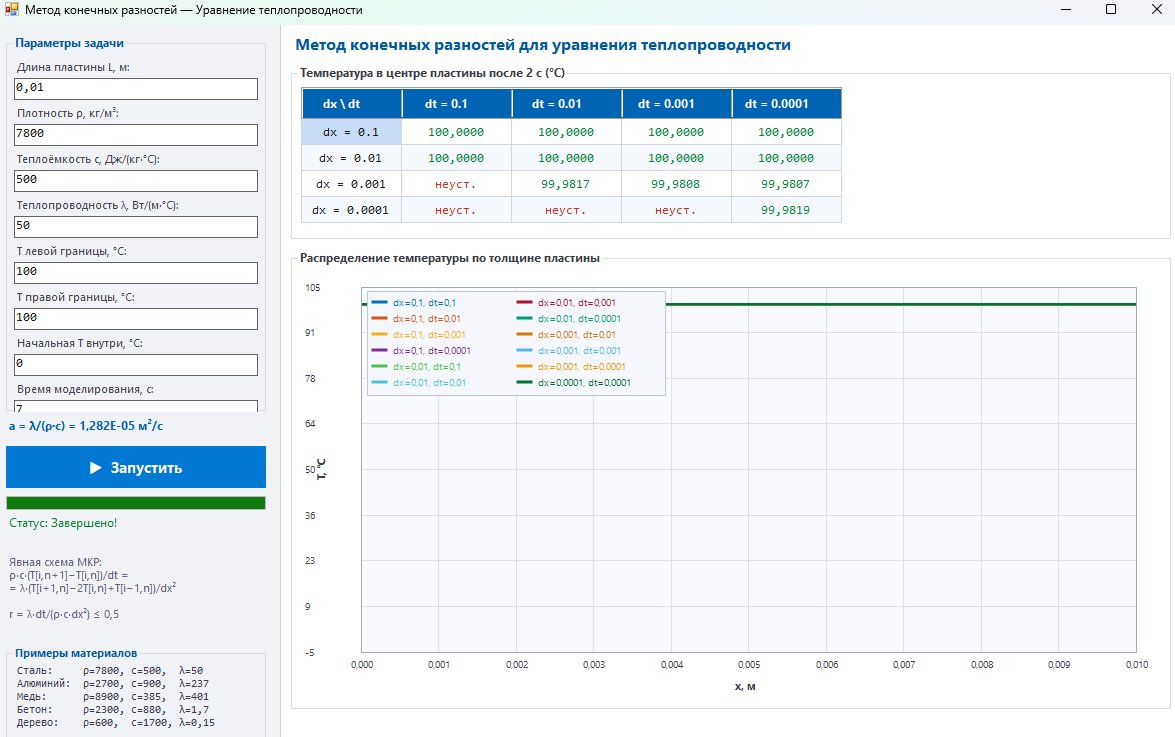
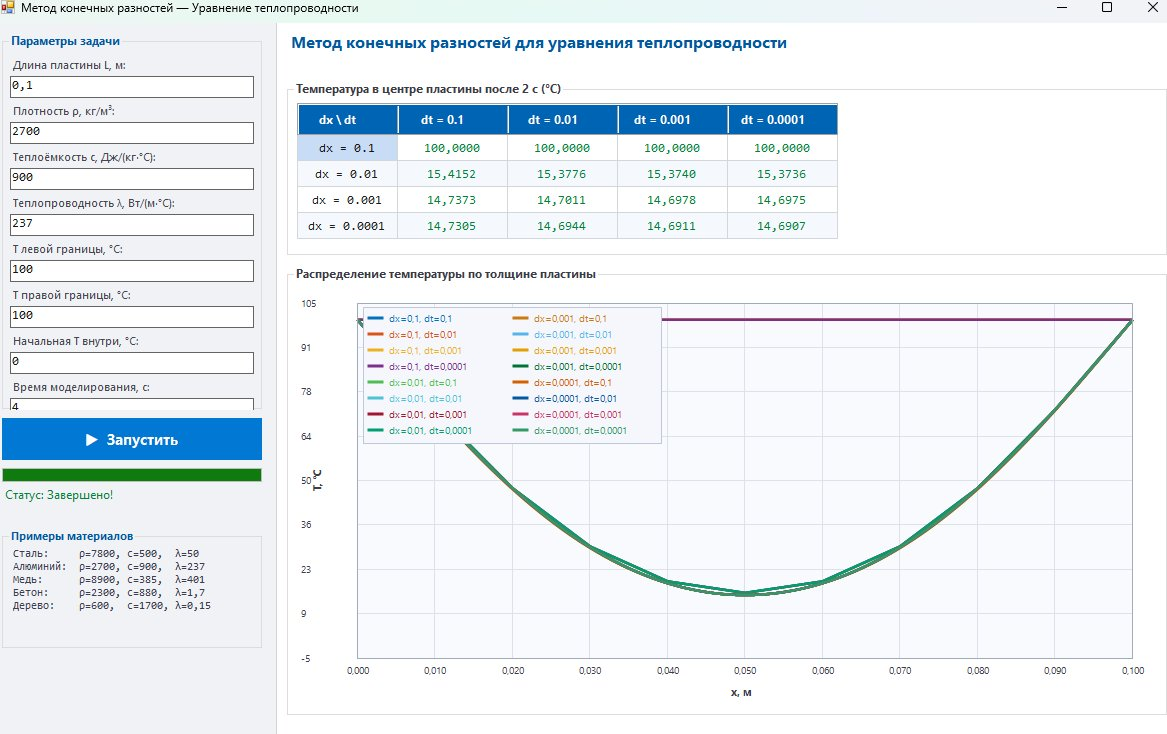
lab2 update

diff --git a/lab02/HeatEquation/Form1.cs b/lab02/HeatEquation/Form1.cs
@@ -9,14 +9,14 @@ namespace HeatEquation
 {
     public partial class Form1 : Form
     {
-        private double L = 0.1;    // длина пластины, м
-        private double rho = 7800.0; // плотность, кг/м³ (сталь)
-        private double c = 500.0;  // удельная теплоёмкость, Дж/(кг·°C)
-        private double lambda = 50.0;   // теплопроводность, Вт/(м·°C)
-        private double T_left = 100.0; // температура левой границы, °C
-        private double T_right = 100.0; // температура правой границы, °C
-        private double T_init = 0.0;   // начальная температура, °C
-        private double t_end = 2.0;   // время моделирования, с
+        private double L = 0.1;
+        private double rho = 7800.0;
+        private double c = 500.0;
+        private double lambda = 50.0;
+        private double T_left = 100.0;
+        private double T_right = 100.0;
+        private double T_init = 0.0;
+        private double t_end = 2.0;
 
         private bool isRunning = false;
 
@@ -83,7 +83,7 @@ namespace HeatEquation
                 t_end = double.Parse(txtTEnd.Text.Replace(',', '.'), ci);
 
                 if (rho <= 0 || c <= 0 || lambda <= 0 || L <= 0 || t_end <= 0)
-                    throw new Exception("Параметры должны быть положительными.");
+                    throw new Exception("Все параметры должны быть положительными.");
             }
             catch (Exception ex)
             {
@@ -95,9 +95,7 @@ namespace HeatEquation
                 return;
             }
 
-            // a = lambda / (rho * c)
-            double a = lambda / (rho * c);
-            lblA.Text = $"a = λ/(ρ·c) = {a:G4} м²/с";
+
 
             for (int i = 0; i < 4; i++)
                 for (int j = 1; j <= 4; j++)
@@ -138,38 +136,23 @@ namespace HeatEquation
                     for (int jdt = 0; jdt < dtValues.Length; jdt++)
                     {
                         double dt = dtValues[jdt];
-                        // r = a * dt / dx²  — число Куранта
-                        double r = a * dt / (dx * dx);
                         int iCopy = idx, jCopy = jdt;
 
-                        if (r > 0.5)
-                        {
-                            this.Invoke((Action)(() =>
-                            {
-                                dgvResults.Rows[iCopy].Cells[jCopy + 1].Value = "неуст.";
-                                dgvResults.Rows[iCopy].Cells[jCopy + 1].Style.ForeColor = Color.FromArgb(200, 50, 30);
-                            }));
-                        }
-                        else
-                        {
-                            var (centerTemp, Tfinal, N) = Simulate(dx, dt, r);
+                        
+                        var (centerTemp, Tfinal, N) = SimulateImplicit(dx, dt);
 
-                            var col = lineColors[colorIdx % lineColors.Length];
-                            colorIdx++;
-                            string lbl = $"dx={dx}, dt={dt}";
-                            double[] copy = (double[])Tfinal.Clone();
-                            this.Invoke((Action)(() =>
-                            {
-                                chartSeries.Add((lbl, copy, dx, col));
-                                pnlChart.Invalidate();
-                            }));
+                        var col = lineColors[colorIdx % lineColors.Length];
+                        colorIdx++;
+                        string lbl = $"dx={dx}, dt={dt}";
+                        double[] copy = (double[])Tfinal.Clone();
 
-                            this.Invoke((Action)(() =>
-                            {
-                                dgvResults.Rows[iCopy].Cells[jCopy + 1].Value = $"{centerTemp:F4}";
-                                dgvResults.Rows[iCopy].Cells[jCopy + 1].Style.ForeColor = Color.FromArgb(0, 130, 60);
-                            }));
-                        }
+                        this.Invoke((Action)(() =>
+                        {
+                            chartSeries.Add((lbl, copy, dx, col));
+                            pnlChart.Invalidate();
+                            dgvResults.Rows[iCopy].Cells[jCopy + 1].Value = $"{centerTemp:F4}";
+                            dgvResults.Rows[iCopy].Cells[jCopy + 1].Style.ForeColor = Color.FromArgb(0, 130, 60);
+                        }));
 
                         done++;
                         this.Invoke((Action)(() =>
@@ -189,32 +172,59 @@ namespace HeatEquation
             isRunning = false;
         }
 
-        /// <summary>
-        /// Явная схема МКР:
-        /// ρ·c·(T[i,n+1] - T[i,n])/dt = λ·(T[i+1,n] - 2·T[i,n] + T[i-1,n])/dx²
-        /// Что эквивалентно:
-        /// T[i,n+1] = T[i,n] + r·(T[i+1,n] - 2·T[i,n] + T[i-1,n])
-        /// где r = a·dt/dx², a = λ/(ρ·c)
-        /// </summary>
-        private (double centerTemp, double[] Tfinal, int N) Simulate(double dx, double dt, double r)
+        
+        private (double centerTemp, double[] Tfinal, int N) SimulateImplicit(double dx, double dt)
         {
-            int N = (int)Math.Round(L / dx) + 1;
-            double[] T = new double[N];
-            double[] Tnew = new double[N];
+            int N = (int)Math.Round(L / dx) + 1;  // количество узлов
+            double h = dx;                          
+            double tau = dt;                        
+ 
+            double A = lambda / (h * h);                          
+            double B = 2.0 * lambda / (h * h) + rho * c / tau;   
+            double C = lambda / (h * h);                          
 
+            
+            double[] T = new double[N];   
+            double[] Tnew = new double[N];   
+
+            
             for (int i = 0; i < N; i++) T[i] = T_init;
+            
             T[0] = T_left;
             T[N - 1] = T_right;
 
+            
+            double[] alpha = new double[N];
+            double[] beta = new double[N];
+
             int steps = (int)Math.Round(t_end / dt);
+
             for (int n = 0; n < steps; n++)
             {
-                Tnew[0] = T_left;
+                
+                alpha[0] = 0.0;
+                beta[0] = T_left;
+
+                for (int i = 1; i < N - 1; i++)
+                {
+                   
+                    double F = -(rho * c / tau) * T[i];
+
+                    double denom = B - C * alpha[i - 1];
+
+                    alpha[i] = A / denom;
+
+                    beta[i] = (C * beta[i - 1] - F) / denom;
+                }
+
+                
                 Tnew[N - 1] = T_right;
 
-                // ρ·c·(T_new - T_old)/dt = λ·(T[i+1] - 2T[i] + T[i-1])/dx²
-                for (int i = 1; i < N - 1; i++)
-                    Tnew[i] = T[i] + r * (T[i + 1] - 2.0 * T[i] + T[i - 1]);
+                for (int i = N - 2; i >= 0; i--)
+                    Tnew[i] = alpha[i] * Tnew[i + 1] + beta[i];
+
+                Tnew[0] = T_left;
+                Tnew[N - 1] = T_right;
 
                 Array.Copy(Tnew, T, N);
             }

diff --git a/lab02/HeatEquation/Form1.Designer.cs b/lab02/HeatEquation/Form1.Designer.cs
@@ -19,13 +19,10 @@ namespace HeatEquation
         private GroupBox grpTable;
         private GroupBox grpChart;
 
-        // Поля ввода
         private Label lblL, lblRho, lblC, lblLambda, lblTLeft, lblTRight, lblTInit, lblTEnd;
         private TextBox txtL, txtRho, txtC, txtLambda, txtTLeft, txtTRight, txtTInit, txtTEnd;
 
-        // Вычисленное значение a
-        private Label lblA;
-
+      /*  private Label lblA; */
         private Button btnRun;
         private ProgressBar progressBar;
         private Label lblStatus;
@@ -42,7 +39,7 @@ namespace HeatEquation
             this.Font = new System.Drawing.Font("Segoe UI", 9f);
             this.StartPosition = FormStartPosition.CenterScreen;
 
-            // ===== LEFT PANEL =====
+            // ===== Левая панель =====
             panelLeft = new Panel
             {
                 Dock = DockStyle.Left,
@@ -60,7 +57,7 @@ namespace HeatEquation
                 ForeColor = Color.FromArgb(0, 90, 160),
                 Font = new System.Drawing.Font("Segoe UI", 9f, FontStyle.Bold),
                 Location = new Point(10, 10),
-                Size = new Size(260, 400),
+                Size = new Size(260, 385),
                 BackColor = Color.Transparent
             };
 
@@ -77,21 +74,12 @@ namespace HeatEquation
             grpParams.Size = new Size(260, row + 30);
             panelLeft.Controls.Add(grpParams);
 
-            // Метка вычисленного a
-            lblA = new Label
-            {
-                Text = "a = λ/(ρ·c) = — м²/с",
-                Location = new Point(10, grpParams.Bottom + 6),
-                Size = new Size(260, 20),
-                ForeColor = Color.FromArgb(0, 100, 180),
-                Font = new System.Drawing.Font("Segoe UI", 8.5f, FontStyle.Bold)
-            };
-            panelLeft.Controls.Add(lblA);
+       
 
             btnRun = new Button
             {
                 Text = "▶  Запустить",
-                Location = new Point(10, lblA.Bottom + 8),
+                Location = new Point(10, grpParams.Bottom + 8),
                 Size = new Size(260, 42),
                 BackColor = Color.FromArgb(0, 120, 212),
                 ForeColor = Color.White,
@@ -125,23 +113,13 @@ namespace HeatEquation
             };
             panelLeft.Controls.Add(lblStatus);
 
-            var lblFormula = new Label
-            {
-                Text = "Явная схема МКР:\nρ·c·(T[i,n+1]−T[i,n])/dt =\n= λ·(T[i+1,n]−2T[i,n]+T[i−1,n])/dx²\n\nr = λ·dt/(ρ·c·dx²) ≤ 0,5",
-                Location = new Point(10, lblStatus.Bottom + 4),
-                Size = new Size(260, 85),
-                ForeColor = Color.FromArgb(100, 100, 120),
-                Font = new System.Drawing.Font("Segoe UI", 8f)
-            };
-            panelLeft.Controls.Add(lblFormula);
-
-            // Подсказка материалов
+            //  материалы
             var grpMaterials = new GroupBox
             {
                 Text = "Примеры материалов",
                 ForeColor = Color.FromArgb(0, 90, 160),
                 Font = new System.Drawing.Font("Segoe UI", 8f, FontStyle.Bold),
-                Location = new Point(10, lblFormula.Bottom + 6),
+                Location = new Point(10, lblStatus.Bottom + 6),
                 Size = new Size(260, 120),
                 BackColor = Color.Transparent
             };
@@ -160,7 +138,7 @@ namespace HeatEquation
             grpMaterials.Controls.Add(lblMat);
             panelLeft.Controls.Add(grpMaterials);
 
-            // ===== RIGHT PANEL =====
+            // ===== Правая панель =====
             panelRight = new Panel
             {
                 Dock = DockStyle.Fill,
@@ -179,12 +157,14 @@ namespace HeatEquation
             };
             panelRight.Controls.Add(lblTitle);
 
+        
+
             grpTable = new GroupBox
             {
                 Text = "Температура в центре пластины после 2 с (°C)",
                 ForeColor = Color.FromArgb(60, 60, 70),
                 Font = new System.Drawing.Font("Segoe UI", 9f, FontStyle.Bold),
-                Location = new Point(10, 40),
+                Location = new Point(10, 58),
                 Size = new Size(880, 175),
                 BackColor = Color.Transparent
             };
@@ -231,15 +211,15 @@ namespace HeatEquation
                 Text = "Распределение температуры по толщине пластины",
                 ForeColor = Color.FromArgb(60, 60, 70),
                 Font = new System.Drawing.Font("Segoe UI", 9f, FontStyle.Bold),
-                Location = new Point(10, 225),
-                Size = new Size(880, 460),
+                Location = new Point(10, 243),
+                Size = new Size(880, 450),
                 BackColor = Color.Transparent
             };
 
             pnlChart = new Panel
             {
                 Location = new Point(10, 22),
-                Size = new Size(855, 425),
+                Size = new Size(855, 415),
                 BackColor = Color.White
             };
             pnlChart.Paint += pnlChart_Paint;

diff --git a/lab02/Otchyot.md b/lab02/Otchyot.md
@@ -2,18 +2,20 @@
 ![График](screenshot.png)
 
 ## Таблица
-| Шаг по времени, с \ Шаг по пространству, м | 0,1      | 0,01     | 0,001    | 0,0001   |
-|---------------------------------------------|----------|----------|----------|----------|
-| 0,1                                         | 100,0000 | 100,0000 | 100,0000 | 100,0000 |
-| 0,01                                        | 100,0000 | 100,0000 | 100,0000 | 100,0000 |
-| 0,001                                       | неуст.   | 99,9817  | 99,9808  | 99,9807  |
-| 0,0001                                      | неуст.   | неуст.   | неуст.   | 99,9819  |
+| Шаг по времени, с \ Шаг по пространству, м | 0,1        | 0,01       | 0,001      | 0,0001     |
+|---------------------------------------------|------------|------------|------------|------------|
+| 0,1                                         | 100,0000   | 100,0000   | 100,0000   | 100,0000   |
+| 0,01                                        | 15,4152    | 15,3776    | 15,3740    | 15,3736    |
+| 0,001                                       | 14,7373    | 14,7011    | 14,6978    | 14,6975    |
+| 0,0001                                      | 14,7305    | 14,6944    | 14,6911    | 14,6907    |
 
 ## Вывод
-В ходе выполнения лабораторной работы была разработана программа для моделирования изменения температуры в пластине на основе одномерного уравнения теплопроводности с применением метода конечных разностей (явная схема). В качестве параметров материала использовались отдельные физические характеристики: плотность ρ, удельная теплоёмкость c и теплопроводность λ, из которых автоматически вычислялся коэффициент температуропроводности a = λ/(ρ·c).
+В ходе выполнения лабораторной работы была разработана программа для моделирования изменения температуры в пластине на основе одномерного уравнения теплопроводности с применением метода конечных разностей. В отличие от явной схемы, была реализована неявная схема с методом прогонки (алгоритм Томаса), которая является безусловно устойчивой и не накладывает ограничений на соотношение шагов по времени и пространству.
 
-В процессе моделирования была заполнена таблица значений температуры в центральной точке пластины после 2 секунд модельного времени при различных комбинациях шага по времени (dt) и шага по пространству (dx). Ряд комбинаций был отмечен как неустойчивые — это происходит при нарушении условия устойчивости явной схемы: r = λ·dt/(ρ·c·dx²) ≤ 0,5. При несоблюдении данного условия численное решение расходится и не имеет физического смысла.
+В качестве параметров материала использовался алюминий: плотность ρ = 2700 кг/м³, удельная теплоёмкость c = 900 Дж/(кг·°C), теплопроводность λ = 237 Вт/(м·°C). Длина пластины L = 0,1 м, граничные условия T = 100 °C, начальная температура T₀ = 0 °C, время моделирования t = 4 с.
 
-Анализ устойчивых результатов показал, что при крупных шагах по пространству (dx = 0,1 и dx = 0,01) температура в центре пластины после 2 с достигает значений 100 °C, то есть центр пластины полностью прогревается до температуры границ. Это объясняется тем, что при малом коэффициенте температуропроводности (a = 1,282·10⁻⁵ м²/с для стали) и крупной сетке модель не разрешает реальный температурный градиент. При уменьшении шага по пространству (dx = 0,001 и dx = 0,0001) начинают проявляться значения, близкие к 99,98 °C, что свидетельствует о сходимости решения.
+В процессе моделирования была заполнена таблица значений температуры в центральной точке пластины после 2 секунд модельного времени при различных комбинациях шага по времени (dt) и шага по пространству (dx). В отличие от явной схемы, все 16 комбинаций дали результат — ячеек «неуст.» нет, что подтверждает безусловную устойчивость неявной схемы.
 
-Таким образом, точность моделирования существенно зависит от выбора шагов по времени и пространству. Явная схема МКР накладывает жёсткое ограничение на соотношение шагов. При правильном выборе параметров метод обеспечивает физически корректное и сходящееся решение.
+Анализ результатов показал, что при крупном шаге по пространству (dx = 0,1) температура в центре достигает 100 °C — сетка слишком грубая и не разрешает реальный градиент. При уменьшении dx результаты сходятся к значению около 14,69 °C. Уменьшение шага по времени dt при фиксированном dx также улучшает точность, однако влияние dt значительно меньше, чем влияние dx.
+
+Таким образом, неявная схема МКР с методом прогонки обеспечивает устойчивое решение при любых шагах сетки. Точность результата определяется прежде всего выбором шага по пространству dx: чем он меньше, тем точнее решение сходится к истинному значению.
